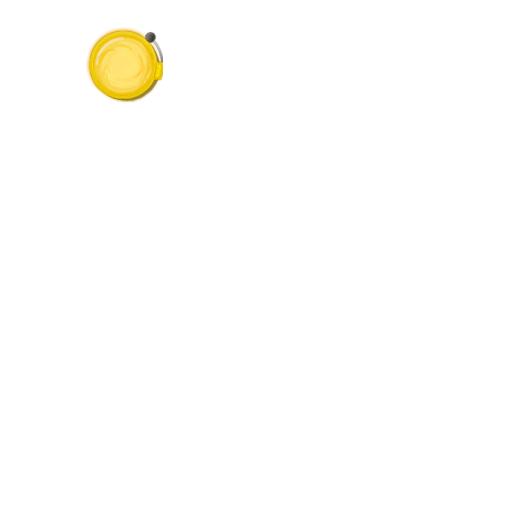
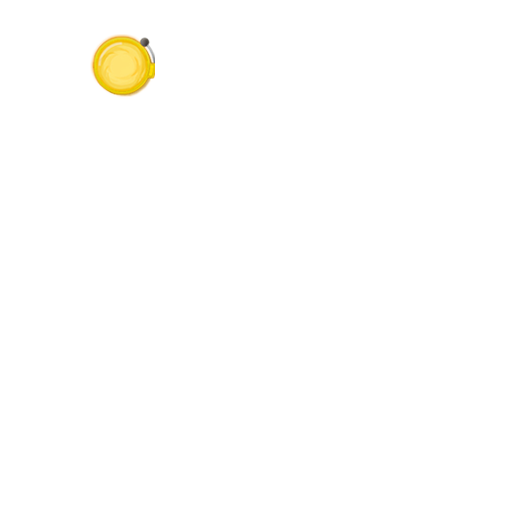
smaller card energy orb; tweak Square Off; tweak card texts

Changed region(s): [[0.1562, 0.0312, 0.3438, 0.2188]]

diff --git a/src/main/java/thewrestler/WrestlerMod.java b/src/main/java/thewrestler/WrestlerMod.java
@@ -437,7 +437,7 @@ public class WrestlerMod implements
         BaseMod.addCard(new AlleyOop());
         BaseMod.addCard(new AtomicDrop());
         BaseMod.addCard(new BearHug());
-        BaseMod.addCard(new BlowOff());
+//        BaseMod.addCard(new BlowOff());
         BaseMod.addCard(new Brainbuster());
         BaseMod.addCard(new CageMatch());
         BaseMod.addCard(new CheapShot());
@@ -491,7 +491,7 @@ public class WrestlerMod implements
         UnlockTracker.unlockCard(AlleyOop.ID);
         UnlockTracker.unlockCard(AtomicDrop.ID);
         UnlockTracker.unlockCard(BearHug.ID);
-        UnlockTracker.unlockCard(BlowOff.ID);
+//        UnlockTracker.unlockCard(BlowOff.ID);
         UnlockTracker.unlockCard(Brainbuster.ID);
         UnlockTracker.unlockCard(CageMatch.ID);
         UnlockTracker.unlockCard(CheapShot.ID);

diff --git a/src/main/java/thewrestler/cards/skill/SquareOff.java b/src/main/java/thewrestler/cards/skill/SquareOff.java
@@ -22,8 +22,8 @@ public class SquareOff extends CustomCard {
   public static final String[] EXTENDED_DESCRIPTION;
   public static final String IMG_PATH = "squareoff.png";
 
-  private static final int BLOCK_AMOUNT = 3;
-  private static final int BLOCK_AMOUNT_UPGRADE  = 3;
+  private static final int BLOCK_AMOUNT = 4;
+  private static final int BLOCK_AMOUNT_UPGRADE = 2;
 
   private static final CardStrings cardStrings;
 
